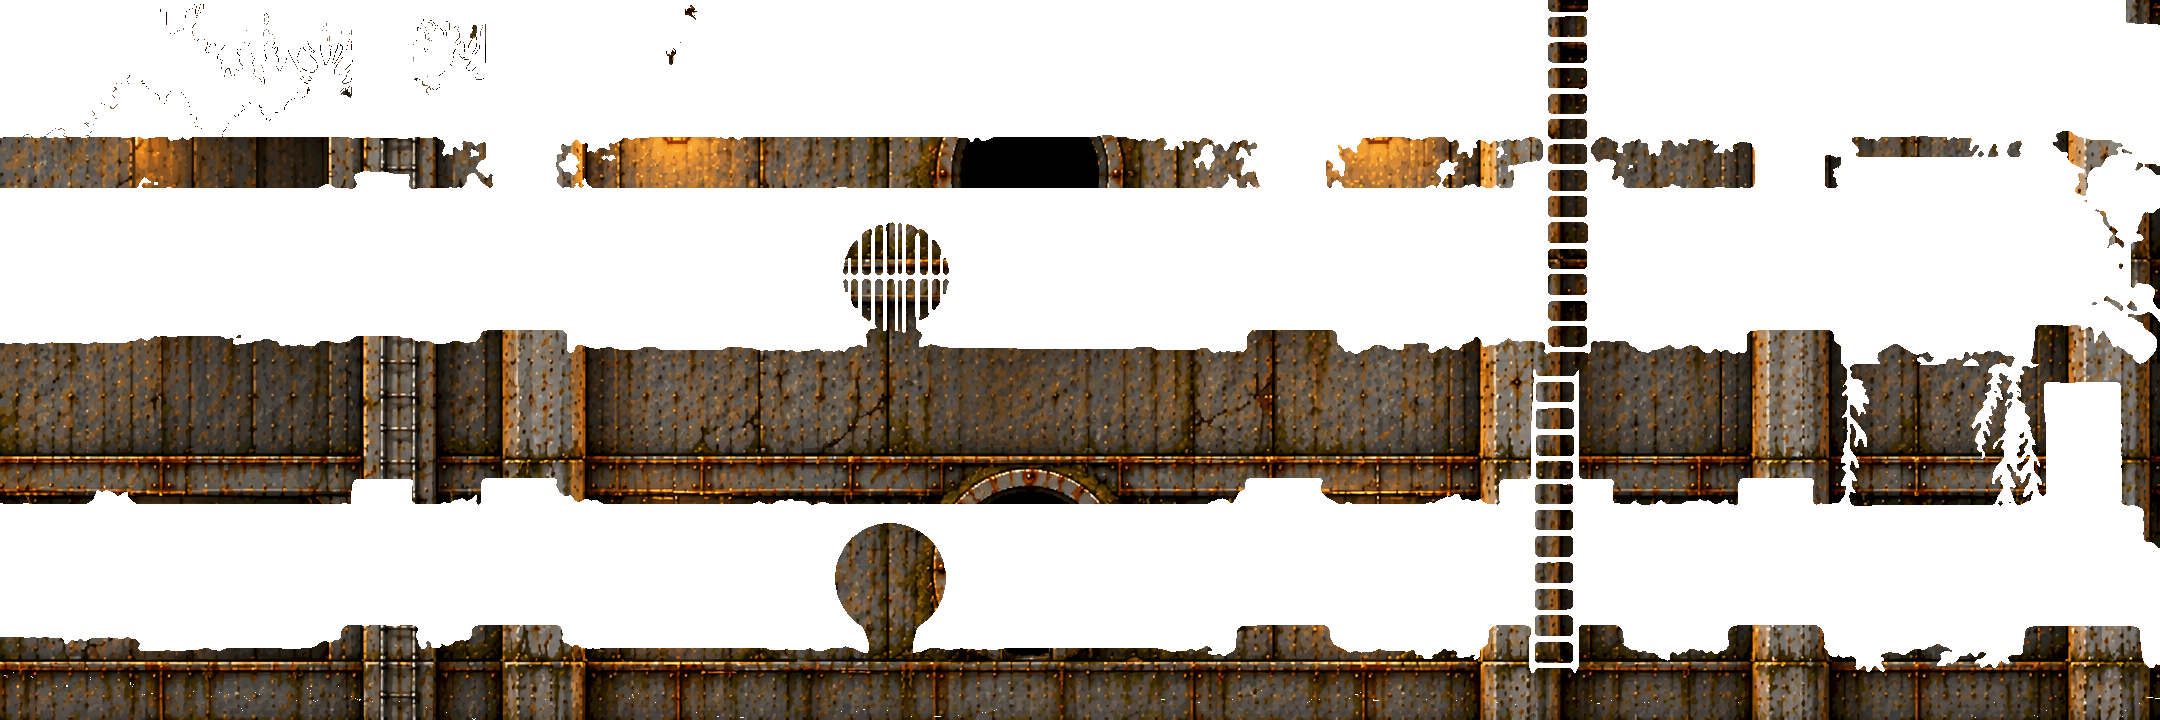
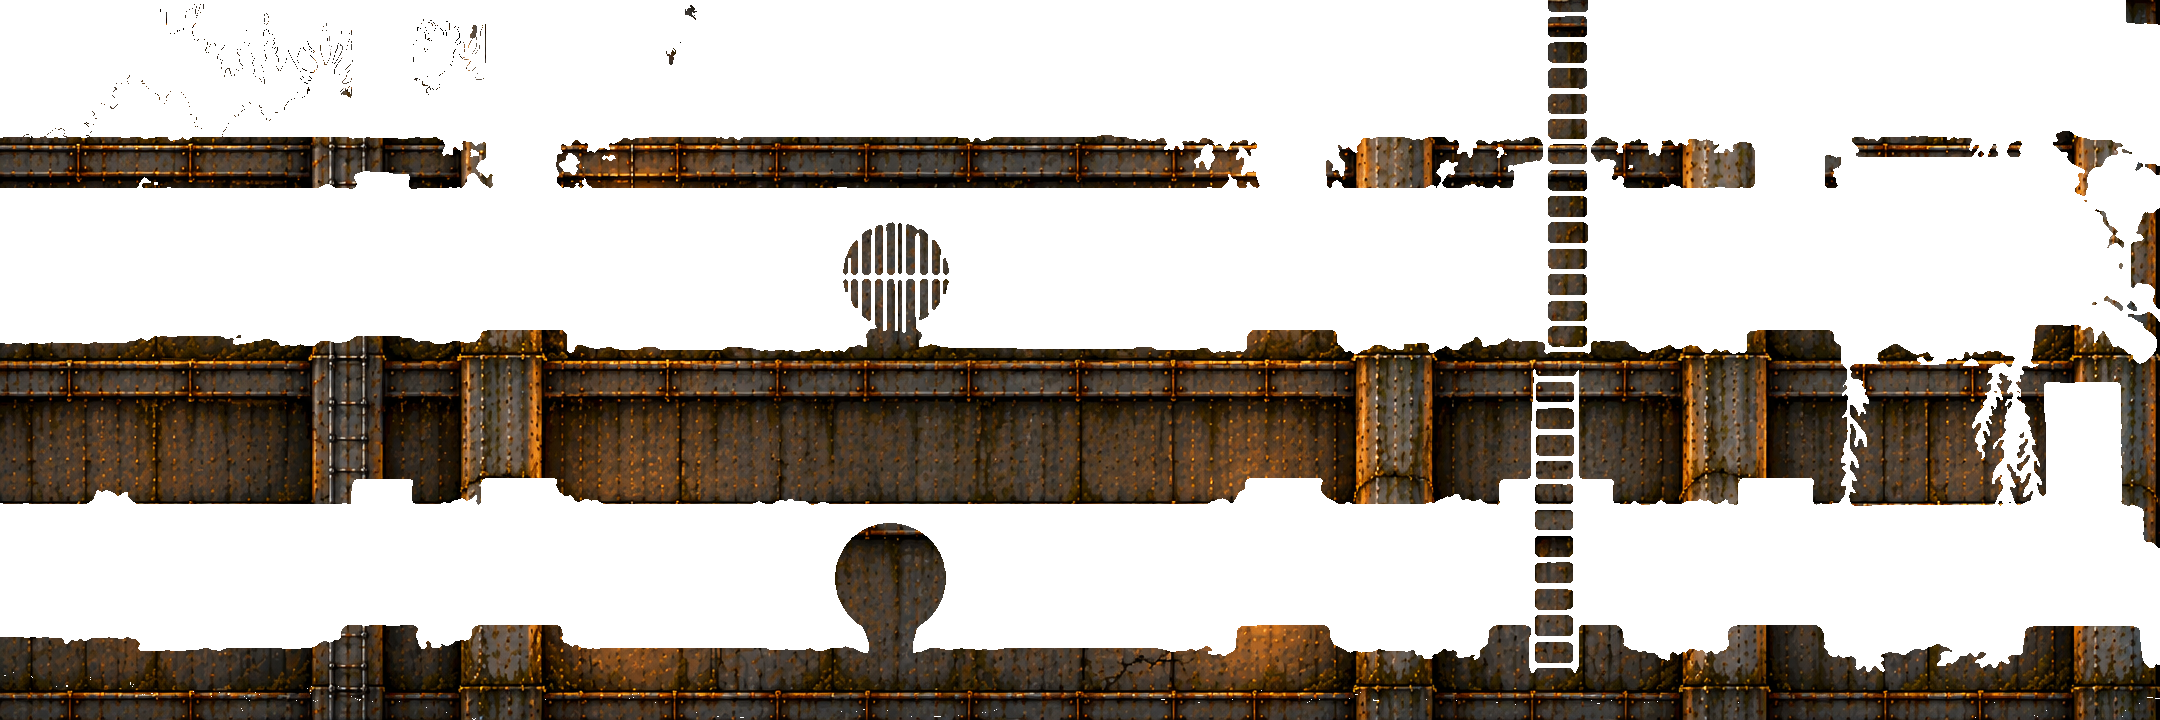
fix(layers): the drain's back wall without a made-up black opening
The whole fill of hg-3-1's back wall painted a flat black pipe mouth
behind a girder (seen layer by layer in debug mode). It is painted again,
and whole now refuses a painting with a flat-black void (black_void: the
biggest 4-connected black blob in the window, over 600 px) and paints it
again; thin dark outlines stay. Checked over purple and white.

Refs #208

diff --git a/scripts/depth_layers.py b/scripts/depth_layers.py
@@ -596,12 +596,38 @@ def under(region: Path, chunk: str, reuse: bool = False) -> list[Path]:
 # in front of it, and what must not be painted there.
 WHOLE = {
     "rear": ("the room's back wall - its masonry, concrete, arches, piers, pipes or rock, whatever the wall around "
-             "the hole is made of, with its lanterns' light", "floors, ledges, girders, ladders, water, weeds or plants"),
+             "the hole is made of, with its lanterns' light, closed and lit like the wall around it",
+             "floors, ledges, girders, ladders, water, weeds or plants, and no new openings, pipe mouths or black holes"),
     "water": ("the deep water with its light and its dark, the same water as around the hole",
               "floors, ledges, girders, ladders, weeds or plants"),
     "play": ("the floors, walkways, ledges and girders, continued as they run", "weeds, plants or grass"),
 }
 WHOLE_REACH = 96  # water and floor continue this far behind what stands in front of them
+BLACK = 6          # a channel maximum under this is flat black
+BLACK_VOID = 600   # a flat-black blob this big in the painted window is a hole or a made-up opening: paint again
+
+
+def black_void(painted, window) -> int:
+    """The biggest flat-black blob (4-connected, px) the model painted inside the window. Thin dark outlines are art;
+    a blob is an empty window or an invented opening (hg-3-1's back wall came back with a black pipe mouth behind a
+    girder). Plain numpy flood fill: CI has no scipy."""
+    import numpy as np
+    black = (np.asarray(painted).max(2) < BLACK) & np.asarray(window, bool)
+    seen, best = np.zeros_like(black), 0
+    for y, x in zip(*np.nonzero(black)):
+        if seen[y, x]:
+            continue
+        stack, size = [(y, x)], 0
+        seen[y, x] = True
+        while stack:
+            cy, cx = stack.pop()
+            size += 1
+            for ny, nx in ((cy + 1, cx), (cy - 1, cx), (cy, cx + 1), (cy, cx - 1)):
+                if 0 <= ny < black.shape[0] and 0 <= nx < black.shape[1] and black[ny, nx] and not seen[ny, nx]:
+                    seen[ny, nx] = True
+                    stack.append((ny, nx))
+        best = max(best, size)
+    return best
 WHOLE_PROMPT = (
     "This is one chunk of a side-scrolling stage: a room under the ground. Paint ONLY the transparent area: {what}, "
     "continuing it from what is visible around the hole - the same light, palette, fine 2-pixel grain and scale. "
@@ -634,8 +660,14 @@ def whole(region: Path, chunk: str, art: Image.Image, reuse: bool = False) -> li
         else:
             what, nots = WHOLE[name]
             # 2 px into the layer's own edge, so no fringe of the nearer layer survives in the painting
-            painted = api(f"{chunk}--whole-{name}", art, WHOLE_PROMPT.format(what=what, front=nots),
-                          l_image(ndimage.binary_dilation(front, iterations=2)), (STYLE,))
+            hole = ndimage.binary_dilation(front, iterations=2)
+            for _ in range(3):  # flat black in the window is a hole or a void the model made up: paint it again
+                painted = api(f"{chunk}--whole-{name}", art, WHOLE_PROMPT.format(what=what, front=nots),
+                              l_image(hole), (STYLE,))
+                void = 0 if painted is None else black_void(painted, front)
+                if void <= BLACK_VOID:
+                    break
+                print(f"{chunk}: {name} came back with a {void} px black void, painting again", flush=True)
             if painted is None:
                 continue
             painted.save(raw)

diff --git a/scripts/test_depth_layers.py b/scripts/test_depth_layers.py
@@ -183,3 +183,15 @@ class DepthLayerTests(unittest.TestCase):
 
 if __name__ == "__main__":
     unittest.main()
+
+
+class BlackVoidTests(unittest.TestCase):
+    def test_a_black_blob_counts_and_dark_outlines_do_not(self):
+        import numpy as np
+        painted = np.full((40, 60, 3), 90, np.uint8)
+        painted[5:6, :, :] = 0                 # a 1 px dark outline across the window: art
+        painted[20:30, 10:30, :] = 0           # a 10 x 20 black void
+        window = np.ones((40, 60), bool)
+        self.assertEqual(dl.black_void(painted, window), 200)
+        window[20:30, 10:30] = False           # outside the painted window it does not count
+        self.assertEqual(dl.black_void(painted, window), 60)
